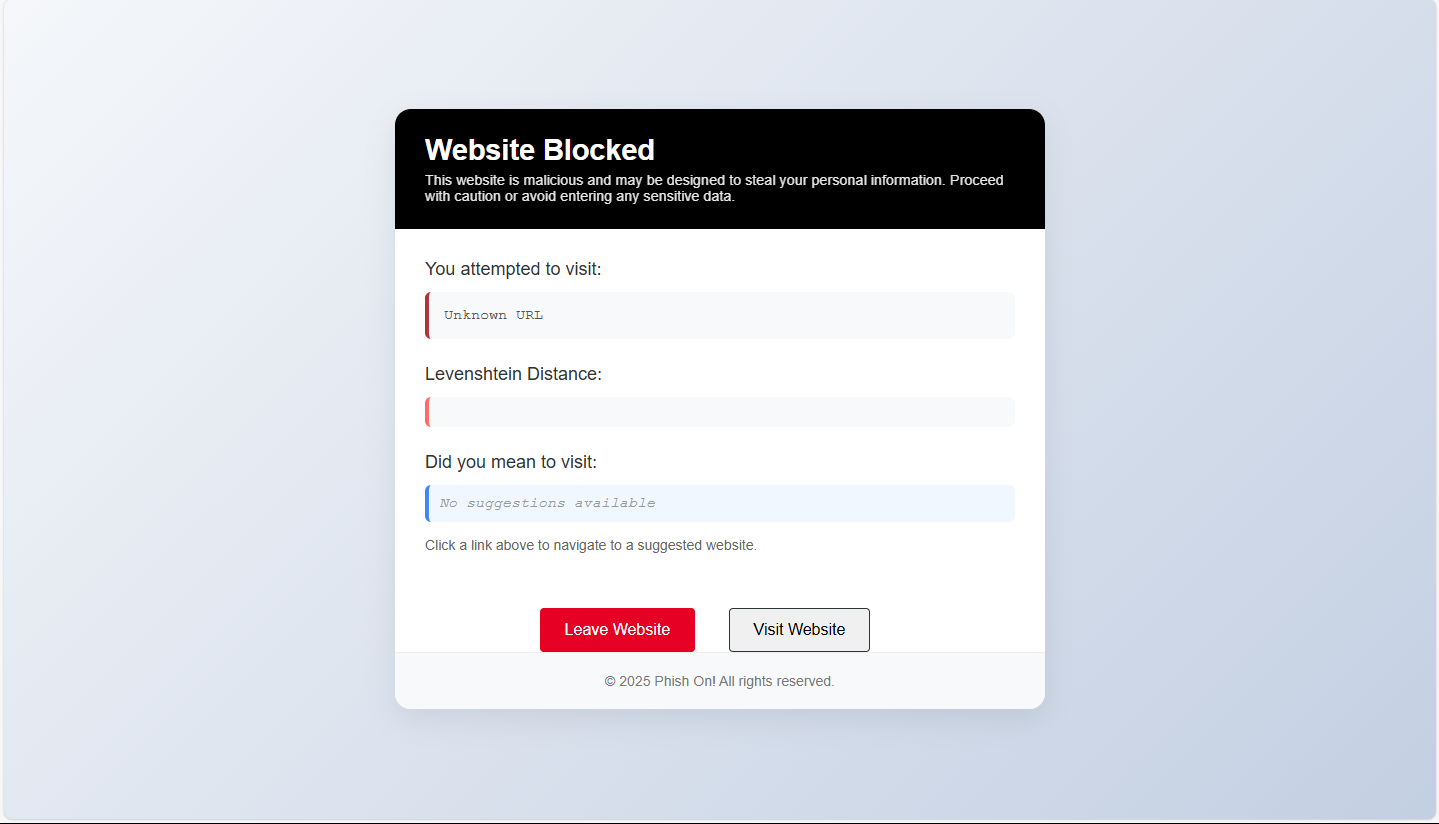
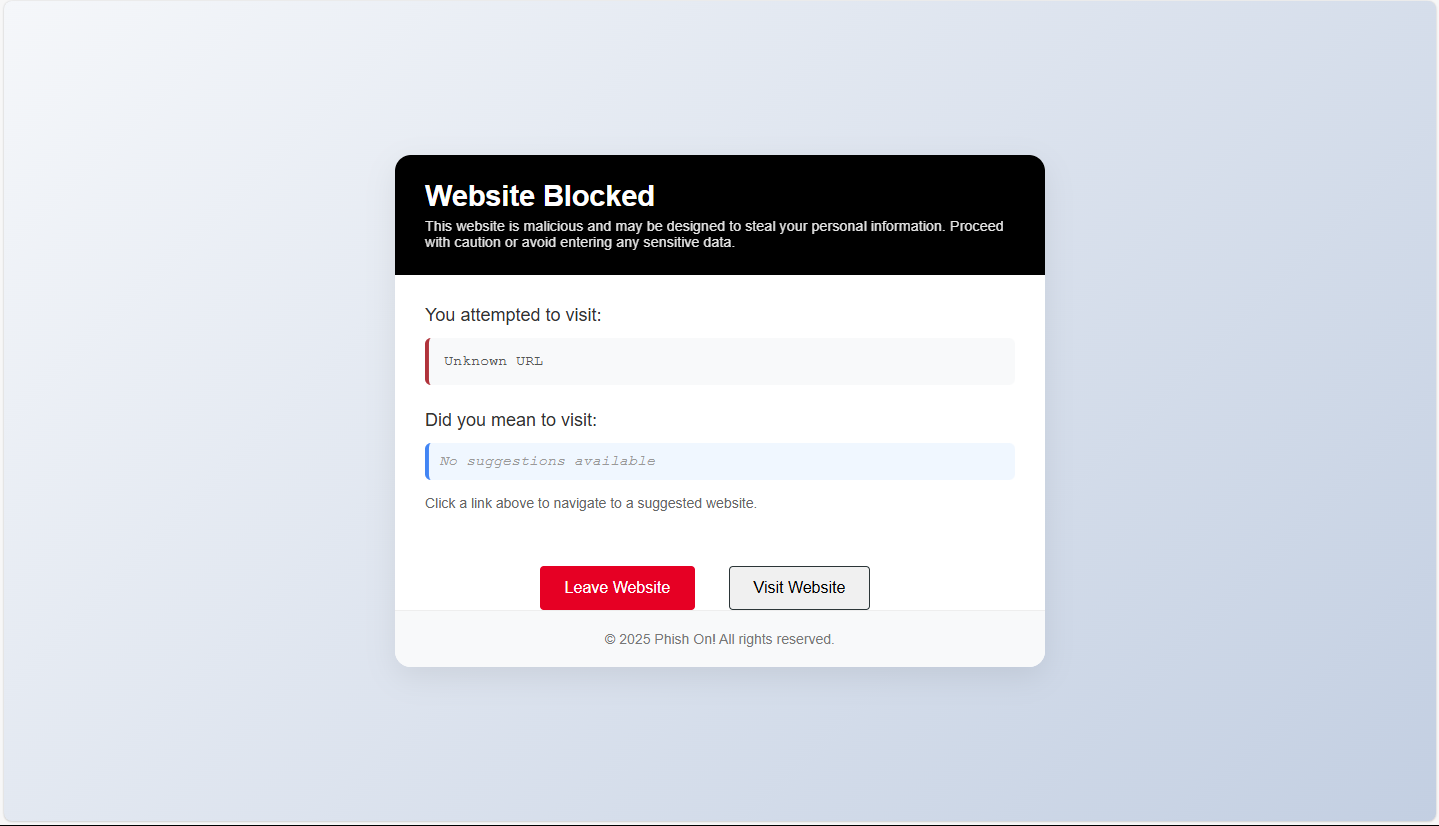
blocked

diff --git a/extension/html/blocked.html b/extension/html/blocked.html
@@ -29,11 +29,6 @@
         </div>
 
         <div class="url-section">
-          <h2>Levenshtein Distance:</h2>
-          <div class="levenshtein" id="levenshtein-distance"></div>
-        </div>
-
-        <div class="url-section">
           <h2>Did you mean to visit:</h2>
           <div class="suggestion-container"></div>
           <p style="margin-top: 15px; font-size: 14px; color: #666">

diff --git a/extension/js/landing.js b/extension/js/landing.js
@@ -1,7 +1,7 @@
 const IMAGES = [
   { id: 1, src: "/assets/malicious.png", alt: "Malicious Webpage" },
   { id: 2, src: "/assets/phishing.png", alt: "Phishing Webpage" },
-  { id: 3, src: "/assets/popup-screen.png", alt: "Browser Extension" },
+  { id: 3, src: "/assets/extension.png", alt: "Browser Extension" },
 ];
 
 document.addEventListener("DOMContentLoaded", () => {

diff --git a/extension/css/landing.css b/extension/css/landing.css
@@ -30,6 +30,7 @@
   position: relative;
   z-index: 1;
   cursor: none;
+  border: 1px solid black;
 }
 
 .carousel-image:hover {
@@ -72,6 +73,7 @@ button:hover {
   filter: brightness(50%);
   transition: filter 0.3s ease-in-out;
   cursor: none;
+  border: 1px solid black;
 }
 
 .thumbnail-image:hover {
